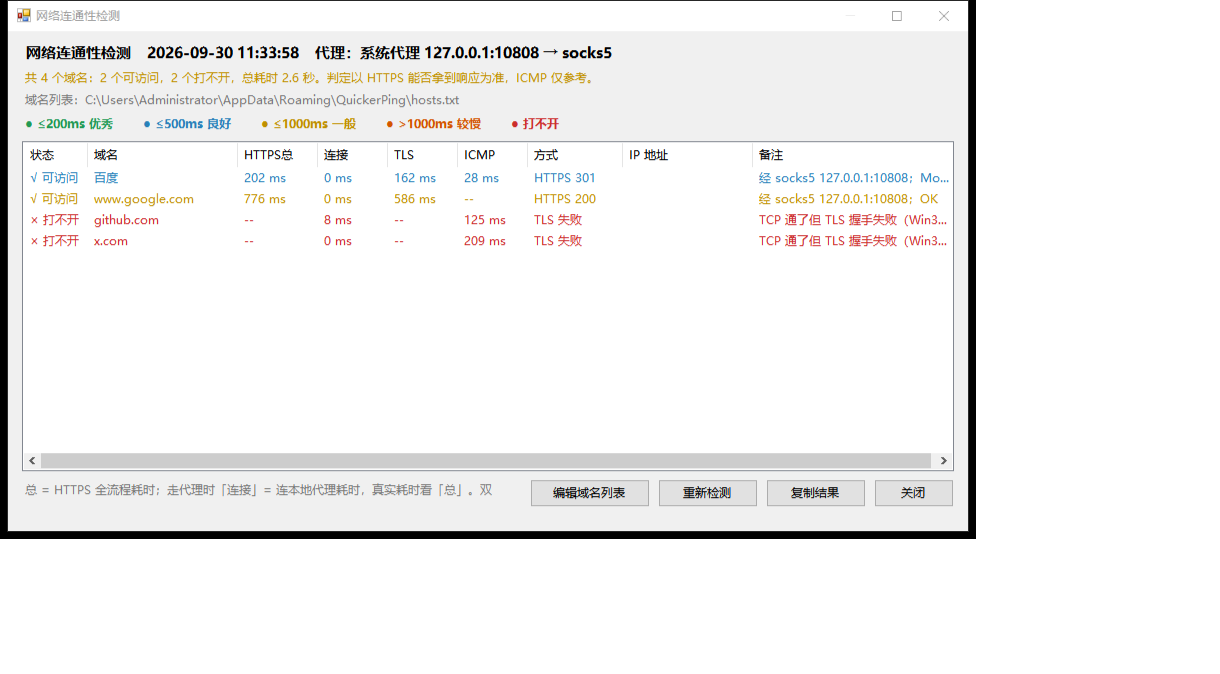
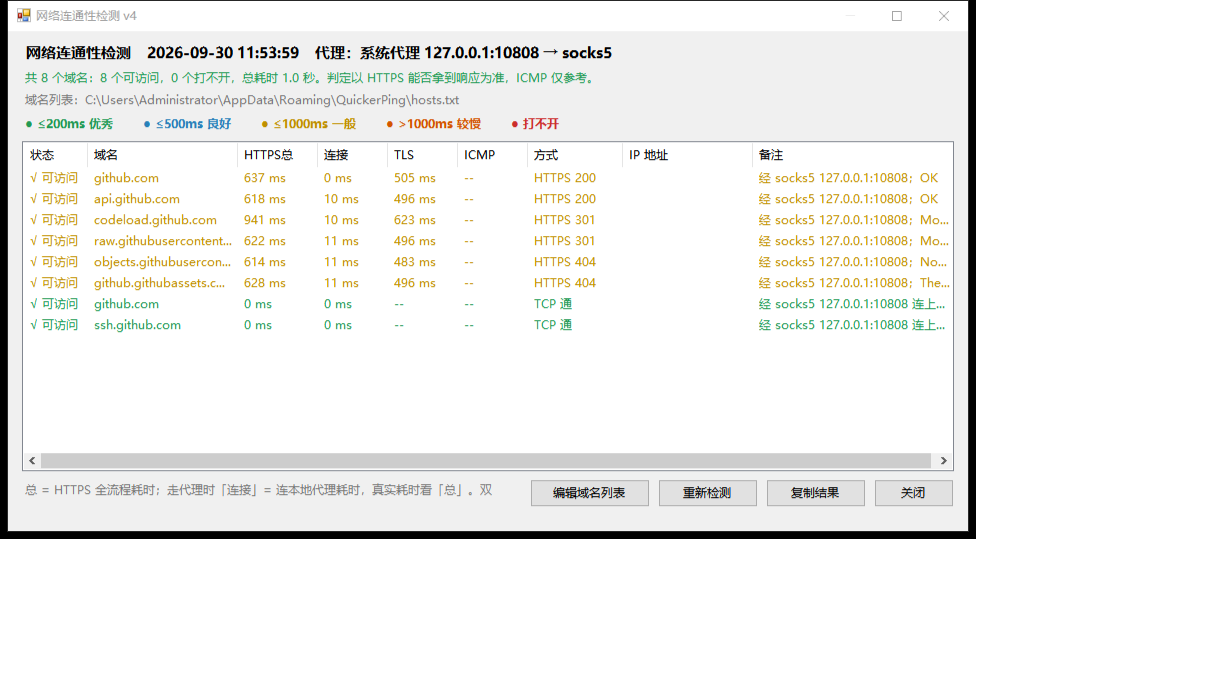
v4：TLS 失败自动重试阶梯 + 窗口标题带版本号，便于识别旧动作

diff --git a/PingCheck.cs b/PingCheck.cs
@@ -690,27 +690,37 @@ public static class NetProbe
 
         RunHttp(h, cfg, r);
 
-        // 有些服务器不接受老旧握手（.NET 默认含 SSL3/TLS1.0）→ 换"系统默认协议"重连一次
-        if (!r.Ok && r.Mode == "TLS 失败" && cfg.TlsProtos != SslProtocols.None)
+        // TLS 失败重试：① 同一套协议重连一次（"远程方已关闭传输流"这类瞬时失败很常见）
+        //              ② 仍失败则换"系统默认协议"（含 TLS1.3）再试
+        if (!r.Ok && r.Mode == "TLS 失败")
         {
-            Config alt = new Config();
-            alt.Hosts = cfg.Hosts;
-            alt.PingTimeoutMs = cfg.PingTimeoutMs;
-            alt.HttpTimeoutMs = cfg.HttpTimeoutMs;
-            alt.Tries = cfg.Tries;
-            alt.IcmpEnabled = cfg.IcmpEnabled;
-            alt.Proxy = cfg.Proxy;
-            alt.Resolved = cfg.Resolved;
-            alt.ProxyNote = cfg.ProxyNote;
-            alt.TlsProtos = SslProtocols.None;
+            SslProtocols[] ladder = new SslProtocols[] { cfg.TlsProtos, SslProtocols.None };
+            for (int a = 0; a < ladder.Length; a++)
+            {
+                if (ladder[a] == cfg.TlsProtos && a == 0)
+                {
+                    // 第一轮：同协议重连
+                }
+                Config alt = new Config();
+                alt.Hosts = cfg.Hosts;
+                alt.PingTimeoutMs = cfg.PingTimeoutMs;
+                alt.HttpTimeoutMs = cfg.HttpTimeoutMs;
+                alt.Tries = cfg.Tries;
+                alt.IcmpEnabled = cfg.IcmpEnabled;
+                alt.Proxy = cfg.Proxy;
+                alt.Resolved = cfg.Resolved;
+                alt.ProxyNote = cfg.ProxyNote;
+                alt.TlsProtos = ladder[a];
 
-            Result r2 = new Result();
-            r2.Target = h;
-            r2.IcmpMs = r.IcmpMs;
-            r2.Sent = r.Sent;
-            r2.Recv = r.Recv;
-            RunHttp(h, alt, r2);
-            if (r2.Ok) return r2;
+                Result r2 = new Result();
+                r2.Target = h;
+                r2.IcmpMs = r.IcmpMs;
+                r2.Sent = r.Sent;
+                r2.Recv = r.Recv;
+                RunHttp(h, alt, r2);
+                if (r2.Ok) return r2;
+                if (r2.Mode != "TLS 失败") break;
+            }
         }
 
         if (!r.Ok && (r.Mode == "TLS 失败" || r.Mode == "TCP 失败" || r.Mode == "HTTP 无响应"))
@@ -736,7 +746,7 @@ public static class NetProbe
         foreach (Result r in rs) if (r != null && r.Ok) ok++;
 
         StringBuilder sb = new StringBuilder();
-        sb.AppendLine("网络连通性检测    " + DateTime.Now.ToString("yyyy-MM-dd HH:mm:ss") + "    代理：" + proxyNote);
+        sb.AppendLine("网络连通性检测 v4    " + DateTime.Now.ToString("yyyy-MM-dd HH:mm:ss") + "    代理：" + proxyNote);
         sb.AppendLine("--------------------------------------------------------------");
         foreach (Result r in rs)
         {
@@ -772,7 +782,7 @@ public class ProbeForm : Form
     public ProbeForm(NetProbe.Config config)
     {
         cfg = config;
-        this.Text = "网络连通性检测";
+        this.Text = "网络连通性检测 v4";
         this.ClientSize = new Size(960, 500);
         this.StartPosition = FormStartPosition.CenterScreen;
         this.Font = new Font("Microsoft YaHei UI", 9F);

diff --git a/使用说明.md b/使用说明.md
@@ -1,4 +1,6 @@
-# Quicker 动作：网站连通性检测（HTTPS 判定 · 自动代理）
+# Quicker 动作：网站连通性检测 v4（HTTPS 判定 · 自动代理）
+
+> **版本怎么看**：窗口标题写的就是版本（当前 **v4**）。标题里没有版本号、或者「域名」列里出现 `tcp/xxx` 这种带前缀的名字、或者一批域名都报"代理握手失败"——说明你导入的是旧动作，重新导入本目录的 json 即可。
 
 点一下动作 → 真去请求一遍 HTTPS，判断域名能不能打开 → 彩色窗口显示结果。代理**默认自动**，不用手写端口。
 
@@ -135,6 +137,8 @@ GH 官方口径也是放通 **TCP 22 / 80 / 443**（[About GitHub's IP addresses
 - **一直显示"TLS 失败"**：换节点再测；这是被针对性阻断的典型表现。
 - **表头出现"指定代理不可用 / 未发现可用代理"**：说明那一次没找到可用代理（旧版遇到 `proxy=auto 说明文字` 就会这样，已修）。确认 `hosts.txt` 里是 `proxy=auto`，或者干脆写死 `proxy=socks5://127.0.0.1:10808`。
 - **想要更快**：`hosts.txt` 里加 `icmp=off`（少两轮 ping，4 个域名实测 13.2 秒 → 1.8 秒）；`http_timeout` 也可以调小。
+- **「域名」列出现 `tcp/github.com` 这种带前缀的名字 / 一批域名都"代理握手失败"**：旧动作不支持 `tcp/` 前缀，会把 `tcp/github.com` 整个当成域名去连 → 必然失败。导入 v4 后前缀会被正确剥离（列表里只显示 `github.com`）。
+- **偶发一条"TLS 失败（远程方已关闭传输流）"**：瞬时抖动，v4 会自动重连一次、再换系统默认协议重试一次；仍失败就换个节点重测。
 - **以前误报过"TLS 失败"**：老版本用的是 .NET 默认握手（含 SSL3/TLS1.0），github.com / x.com 这类站点会拒绝 → 误判打不开。现在固定用 **TLS 1.2/1.1/1.0** 握手，失败再自动换系统默认协议重连一次；github 全套 + x.com 已实测全绿。
 - **不想要窗口**：这一步换成「提示消息」，内容填 `{netResult}`。
 - **图标空白**：不影响运行，动作上右键 → 编辑 → 换图标。
